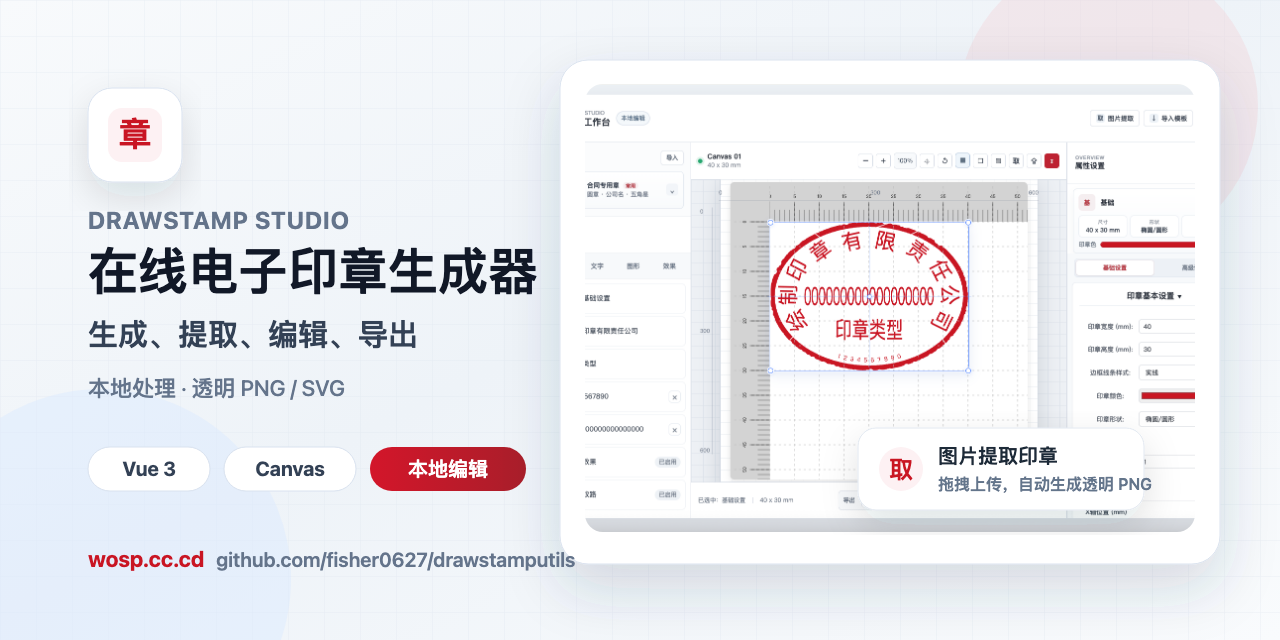
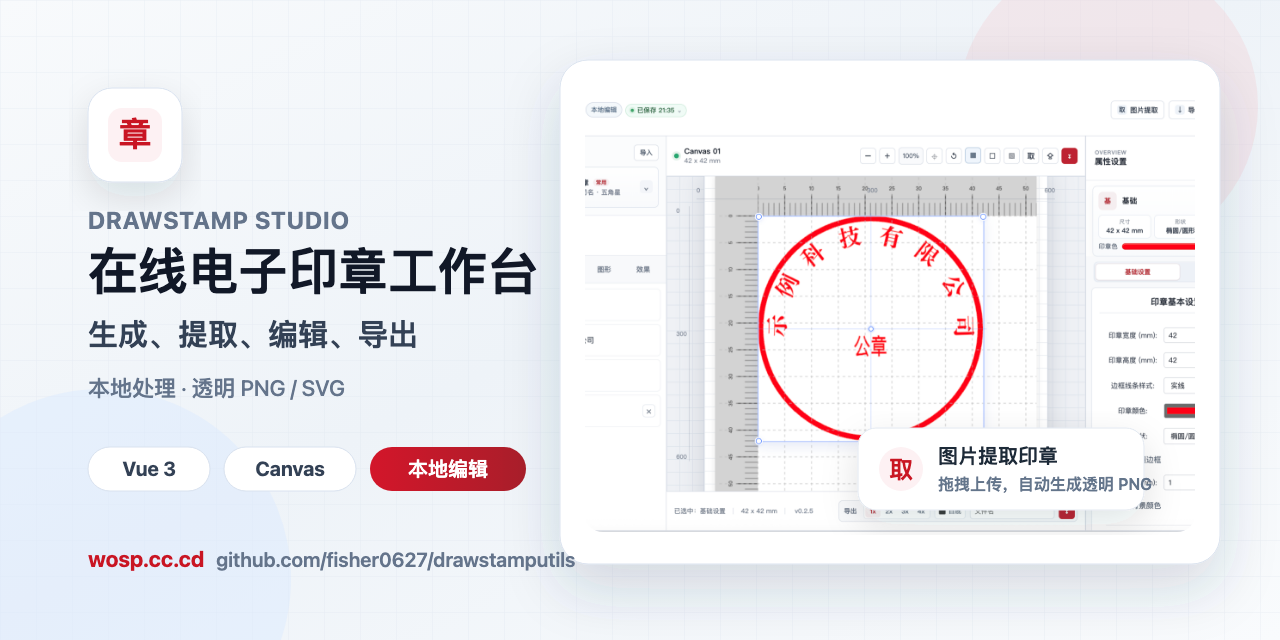
Align README and site entry copy

diff --git a/index.html b/index.html
@@ -8,16 +8,16 @@
     <meta name="viewport" content="width=device-width, initial-scale=1.0" />
     
     <!-- SEO Meta Tags -->
-    <title>在线电子印章生成器 - DrawStamp Studio</title>
-    <meta name="description" content="DrawStamp Studio 是一个在线电子印章生成与编辑工具，支持圆章、椭圆章、图片提取印章、透明 PNG 和 SVG 导出。图片处理在浏览器本地完成，不上传服务器。" />
-    <meta name="keywords" content="电子印章,在线印章,印章生成器,电子印章生成器,透明印章PNG,图片提取印章,公章图片制作,合同专用章,财务专用章,发票专用章,stamp generator,digital seal,DrawStamp Studio" />
+    <title>DrawStamp Studio - 在线电子印章工作台</title>
+    <meta name="description" content="DrawStamp Studio 是一个在线电子印章工作台，支持圆章、椭圆章、图片提取印章、画布编辑、模板管理、透明 PNG、SVG 和 JPEG 导出。图片处理在浏览器本地完成，不上传服务器。" />
+    <meta name="keywords" content="电子印章,在线印章,印章工作台,印章生成器,电子印章生成器,透明印章PNG,图片提取印章,公章图片制作,合同专用章,财务专用章,发票专用章,stamp generator,digital seal,DrawStamp Studio" />
     <meta name="author" content="DrawStamp Studio" />
     <meta name="robots" content="index, follow" />
     
     <!-- Open Graph Meta Tags -->
     <meta property="og:site_name" content="DrawStamp Studio" />
-    <meta property="og:title" content="在线电子印章生成器 - DrawStamp Studio" />
-    <meta property="og:description" content="在线生成和编辑电子印章，支持图片提取、透明 PNG / SVG 导出，所有核心处理都在浏览器本地完成。" />
+    <meta property="og:title" content="DrawStamp Studio - 在线电子印章工作台" />
+    <meta property="og:description" content="在线生成、提取、编辑和导出电子印章，支持透明 PNG / SVG / JPEG，核心处理都在浏览器本地完成。" />
     <meta property="og:type" content="website" />
     <meta property="og:url" content="https://wosp.cc.cd/" />
     <meta property="og:locale" content="zh_CN" />
@@ -26,20 +26,20 @@
     <meta property="og:image:type" content="image/png" />
     <meta property="og:image:width" content="1280" />
     <meta property="og:image:height" content="640" />
-    <meta property="og:image:alt" content="DrawStamp Studio 在线电子印章生成器社交预览图" />
+    <meta property="og:image:alt" content="DrawStamp Studio 在线电子印章工作台社交预览图" />
     
     <!-- Twitter Card Meta Tags -->
     <meta name="twitter:card" content="summary_large_image" />
-    <meta name="twitter:title" content="在线电子印章生成器 - DrawStamp Studio" />
-    <meta name="twitter:description" content="在线生成和编辑电子印章，支持图片提取、透明 PNG / SVG 导出，图片处理在浏览器本地完成。" />
+    <meta name="twitter:title" content="DrawStamp Studio - 在线电子印章工作台" />
+    <meta name="twitter:description" content="在线生成、提取、编辑和导出电子印章，支持透明 PNG / SVG / JPEG，图片处理在浏览器本地完成。" />
     <meta name="twitter:image" content="https://wosp.cc.cd/social-preview.png" />
-    <meta name="twitter:image:alt" content="DrawStamp Studio 在线电子印章生成器社交预览图" />
+    <meta name="twitter:image:alt" content="DrawStamp Studio 在线电子印章工作台社交预览图" />
     
     <!-- Language -->
     <meta http-equiv="content-language" content="zh-CN" />
     
     <!-- Theme Color -->
-    <meta name="theme-color" content="#c91523" />
+    <meta name="theme-color" content="#ff0015" />
     <script type="application/ld+json">
       {
         "@context": "https://schema.org",
@@ -49,7 +49,7 @@
         "operatingSystem": "Web",
         "url": "https://wosp.cc.cd/",
         "image": "https://wosp.cc.cd/social-preview.png",
-        "description": "在线电子印章生成与编辑工具，支持圆章、椭圆章、图片提取印章、透明 PNG 和 SVG 导出。",
+        "description": "在线电子印章工作台，支持圆章、椭圆章、图片提取印章、画布编辑、透明 PNG、SVG 和 JPEG 导出。",
         "offers": {
           "@type": "Offer",
           "price": "0",

diff --git a/README.md b/README.md
@@ -1,24 +1,29 @@
-# DrawStamp Studio
+# DrawStamp Studio - 在线电子印章工作台
 
-在线电子印章生成器，一个基于 Vue 3 + Vite 的前端印章生成与编辑工具。
+一个可以直接在线使用的电子印章工作台，支持印章生成、图片提取、画布编辑、模板管理和多格式导出。核心处理都在浏览器本地完成，不依赖后端接口。
 
 [![Live Demo](https://img.shields.io/badge/Live-Demo-FF0015?style=for-the-badge)](https://wosp.cc.cd/)
-[![CI](https://img.shields.io/github/actions/workflow/status/fisher0627/drawstamputils/deploy.yml?branch=main&label=CI&style=for-the-badge)](https://github.com/fisher0627/drawstamputils/actions)
+[![Cloudflare Pages](https://img.shields.io/badge/Cloudflare-Pages-F38020?style=for-the-badge&logo=cloudflare&logoColor=white)](https://wosp.cc.cd/)
 [![Vue 3](https://img.shields.io/badge/Vue-3-42b883?style=for-the-badge&logo=vue.js&logoColor=white)](https://vuejs.org/)
 [![Vite](https://img.shields.io/badge/Vite-5-646cff?style=for-the-badge&logo=vite&logoColor=white)](https://vitejs.dev/)
 [![License](https://img.shields.io/badge/License-Apache--2.0-334155?style=for-the-badge)](LICENSE)
 
-当前项目已经从单纯的印章绘制工具，整理成一个可以直接使用的在线编辑器：支持常用模板、画布编辑、字体选择、图片提取印章、本地自动草稿、模板导入导出，以及 PNG / SVG / JPEG 多格式下载。所有核心处理都在浏览器本地完成，不依赖后端接口。
+## 官方入口
 
-在线访问：[https://wosp.cc.cd/](https://wosp.cc.cd/)
+| 入口 | 地址 |
+| --- | --- |
+| 在线使用 | [https://wosp.cc.cd/](https://wosp.cc.cd/) |
+| GitHub 仓库 | [https://github.com/fisher0627/drawstamputils](https://github.com/fisher0627/drawstamputils) |
+| 问题反馈 | [GitHub Issues](https://github.com/fisher0627/drawstamputils/issues) |
 
-GitHub 仓库：[https://github.com/fisher0627/drawstamputils](https://github.com/fisher0627/drawstamputils)
+## 项目说明
+
+DrawStamp Studio 已经从单纯的印章绘制工具，整理成一个完整的在线编辑器：支持常用模板、专业画布、字体选择、图片提取印章、本地自动草稿、模板导入导出，以及 PNG / SVG / JPEG 多格式下载。
 
 相关文档：
 
 - [贡献指南](CONTRIBUTING.md)
 - [版本记录](CHANGELOG.md)
-- [问题反馈](https://github.com/fisher0627/drawstamputils/issues)
 
 ## 项目定位
 